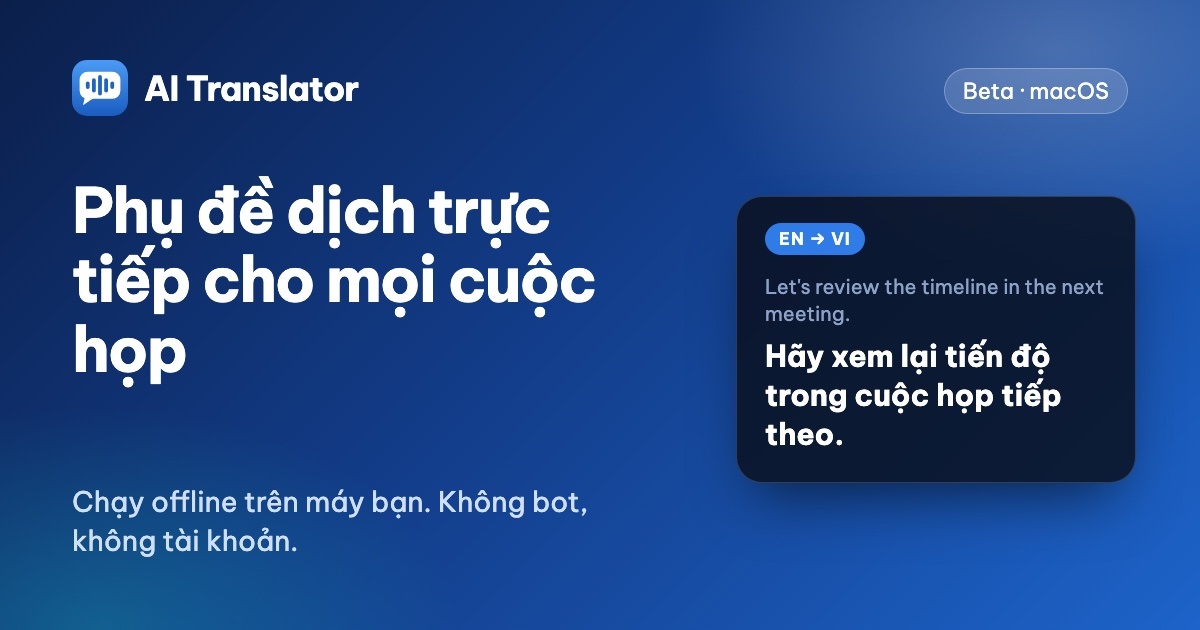
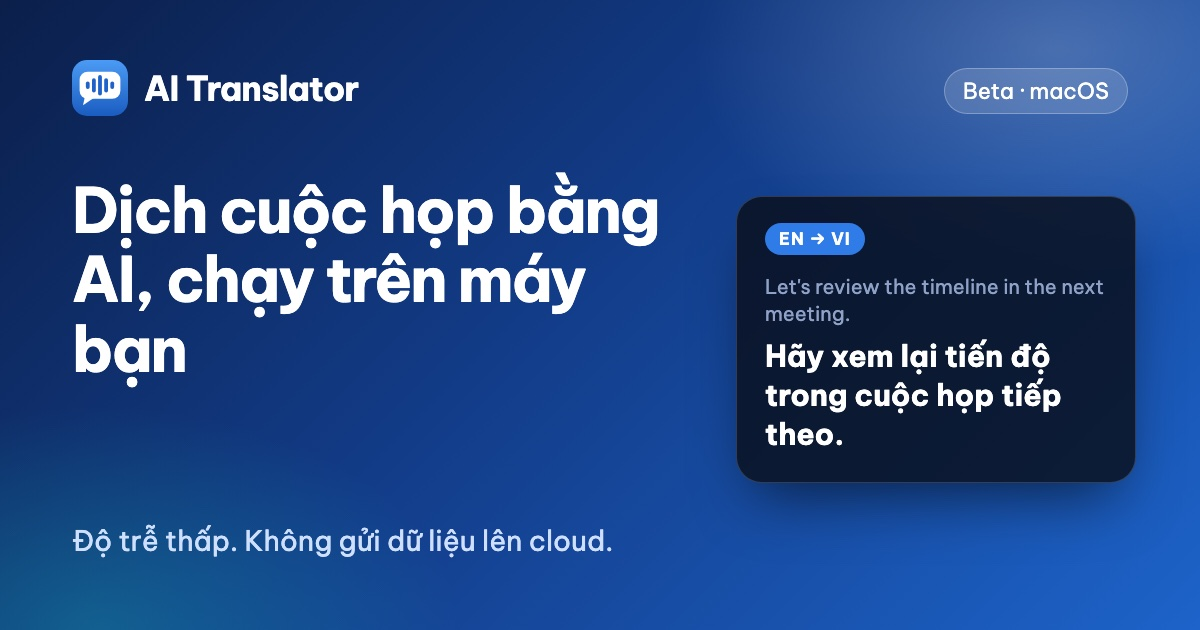
feat(website): nhấn mạnh AI chạy trên máy, độ trễ thấp, không gửi dữ liệu lên cloud hay dùng AI cloud; sơ đồ dữ liệu đi đâu; thêm dự định bổ sung ngôn ngữ

Changed region(s): [[0.0617, 0.2714, 0.555, 0.5127], [0.0617, 0.7841, 0.5242, 0.8746], [0.0617, 0.5429, 0.1542, 0.6333]]

diff --git a/website/src/assets/site.css b/website/src/assets/site.css
@@ -335,6 +335,37 @@ td .yes { color: var(--ok); font-weight: 700; } td .no { color: var(--ink-3); }
 .callout.ok { background: var(--accent-soft); border-color: color-mix(in srgb, var(--accent) 30%, transparent); }
 .callout.ok > .icon { color: var(--accent); }
 
+/* ---------- Dải tối: nhấn mạnh dữ liệu ở lại trên máy ---------- */
+.band-dark { position: relative; isolation: isolate; overflow: hidden; background: linear-gradient(160deg, #0c1a38 0%, #0a1226 60%, #08101f 100%); color: #c9d6ee; border-block: 1px solid rgba(255,255,255,.06); }
+.band-dark::before { content: ""; position: absolute; inset: 0; z-index: -1; background: radial-gradient(520px 280px at 88% 0%, rgba(77,155,255,.24), transparent 70%), radial-gradient(480px 260px at 4% 100%, rgba(47,208,192,.15), transparent 70%); }
+.band-dark h2, .band-dark h3 { color: #fff; }
+.band-dark .eyebrow { color: #8fc0ff; }
+.band-dark .section-head p { color: #adbcd9; }
+.band-dark .card { background: rgba(255,255,255,.05); border-color: rgba(255,255,255,.1); box-shadow: none; }
+.band-dark .feature p { color: #adbcd9; }
+.band-dark .feature .ico { background: rgba(77,155,255,.16); color: #8fc0ff; }
+.band-dark .feature.accent .ico { background: rgba(47,208,192,.18); color: #7ff0dd; }
+.band-dark a:not(.btn) { color: #8fc0ff; }
+.band-dark .btn-secondary { background: rgba(255,255,255,.06); color: #fff; border-color: rgba(255,255,255,.28); }
+.band-dark .btn-secondary:hover { background: rgba(255,255,255,.14); color: #fff; border-color: #fff; }
+.dataflow { display: grid; gap: 16px; grid-template-columns: minmax(0, 1fr); margin-bottom: clamp(28px, 4vw, 44px); }
+@media (min-width: 920px) { .dataflow { grid-template-columns: minmax(0, 1.3fr) minmax(0, 1fr); } }
+.lane { border-radius: var(--r-lg); padding: 22px 24px 24px; border: 1px solid rgba(255,255,255,.12); background: rgba(255,255,255,.04); }
+.lane .tag { display: inline-block; font-size: .72rem; font-weight: 700; letter-spacing: .07em; text-transform: uppercase; padding: 4px 11px; border-radius: 999px; margin-bottom: 14px; }
+.lane-cloud .tag { background: rgba(245,158,11,.16); color: #fbbf6b; }
+.lane-local { border-color: rgba(47,208,192,.55); background: linear-gradient(160deg, rgba(47,208,192,.16), rgba(77,155,255,.08)); box-shadow: 0 0 0 1px rgba(47,208,192,.14), 0 24px 56px -24px rgba(47,208,192,.4); }
+.lane-local .tag { background: rgba(47,208,192,.22); color: #7ff0dd; }
+.nodes { list-style: none; margin: 0 0 14px; padding: 0; display: flex; flex-wrap: wrap; gap: 8px 6px; align-items: center; }
+.nodes li { padding: 7px 10px; border-radius: 10px; background: rgba(255,255,255,.07); border: 1px solid rgba(255,255,255,.1); font-size: .9rem; line-height: 1.3; color: #e6eefc; font-weight: 600; }
+.nodes li small { display: block; font-weight: 400; color: #9db0d3; font-size: .78rem; }
+.nodes li.net { background: none; border: 1px dashed rgba(251,191,107,.55); color: #fbbf6b; }
+.nodes li.ai { background: rgba(47,208,192,.2); border-color: rgba(47,208,192,.6); }
+.nodes li.sep { background: none; border: 0; padding: 0 1px; color: #7d90b5; font-weight: 700; }
+@media (max-width: 919px) { .nodes { flex-direction: column; align-items: flex-start; gap: 4px; } .nodes li.sep { transform: rotate(90deg); width: 16px; height: 16px; line-height: 16px; text-align: center; padding: 0; margin-left: 18px; } }
+@media (min-width: 920px) { .nodes { flex-wrap: nowrap; gap: 4px; } .nodes li { font-size: .84rem; } .nodes li small { font-size: .72rem; } }
+.lane > p { margin: 0; font-size: .94rem; color: #b8c6e0; }
+.lane-local > p { color: #d3f6f0; }
+
 /* ---------- CTA band ---------- */
 .cta-band { position: relative; overflow: hidden; border-radius: var(--r-xl); padding: clamp(32px, 5vw, 64px); background: linear-gradient(135deg, #123b86 0%, #1d63c9 55%, #2a86e8 100%); color: #eaf2ff; text-align: center; isolation: isolate; }
 .cta-band::before { content: ""; position: absolute; inset: 0; z-index: -1; background: radial-gradient(500px 260px at 85% 0%, rgba(255,255,255,.2), transparent 70%), radial-gradient(420px 240px at 10% 100%, rgba(10,200,190,.25), transparent 70%); }
